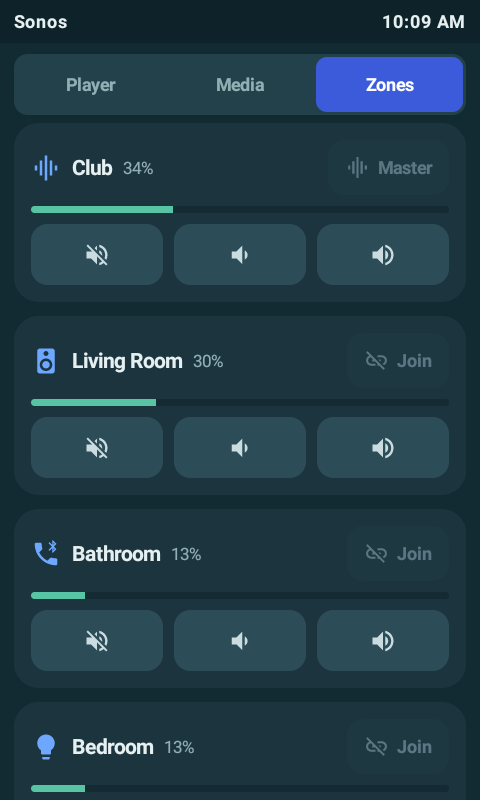
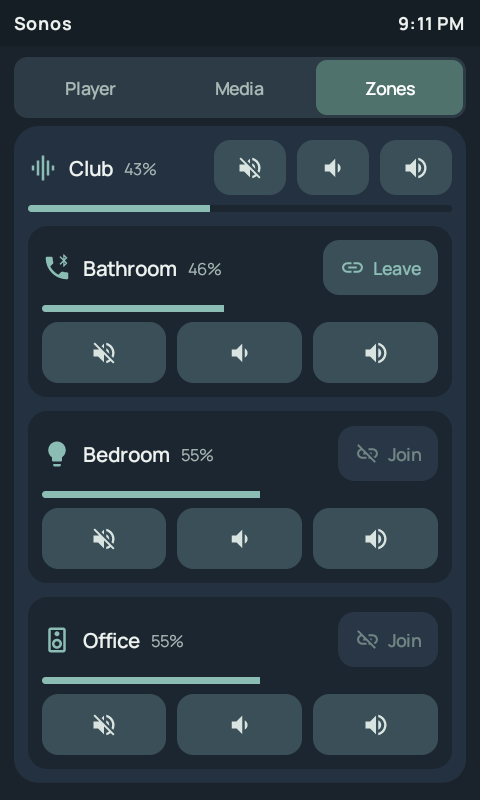
Screenshots: retake in the Porter's palette with Manrope and Syne
Main, TV/Plex, the three Sonos tabs (including the new Zones card), Climate,
IR Mode, the washer alert, the alarm ringing and snoozed (a demo event, not
a real calendar entry), the night screensaver, and the light and vacuum
popups. The GIFs and a few floorplan/vacuum stills are still from earlier
versions; the README says so.

diff --git a/README.md b/README.md
@@ -64,14 +64,15 @@ Requirements: Android Studio (Ladybug or newer) with the Android SDK.
 | ![Speaker zones](screenshots/sonos-group.png) | ![Climate](screenshots/climate.png) | ![Washer done alert](screenshots/alert-washer.png) |
 | **Docked screensaver** | **Alarm** | **Alarm — snoozed** |
 | ![Screensaver](screenshots/screensaver.png) | ![Alarm ringing](screenshots/alarm-ringing.png) | ![Alarm snoozed](screenshots/alarm-snoozed.png) |
-| **IR Mode** | | |
-| ![IR Mode](screenshots/ir-mode.png) | | |
+| **IR Mode** | **Light popup** (long-press a light) | **Vacuum popup** |
+| ![IR Mode](screenshots/ir-mode.png) | ![Light popup](screenshots/light-control.png) | ![Vacuum popup](screenshots/robovac-control.png) |
 
 ![Hold to stop the alarm](screenshots/alarm-hold-to-stop.gif)
 
-More: `screenshots/LD2450-tracking.gif` (mmWave presence dots moving live on the
-floorplan), `sonos-control.gif` (speaker group + volume), the robot-vacuum
-overlay and popup (`robovac-*.png`), and the light colour popup (`light-*.png`).
+More (from earlier versions, in the old colours): `screenshots/LD2450-tracking.gif`
+(mmWave presence dots moving live on the floorplan), `sonos-control.gif`
+(speaker group + volume), the vacuum on the floorplan (`robovac-docked.png`,
+`robovac-kitchen.png`) and the colour light popup (`light-card.png`).
 
 ### What it does
 
